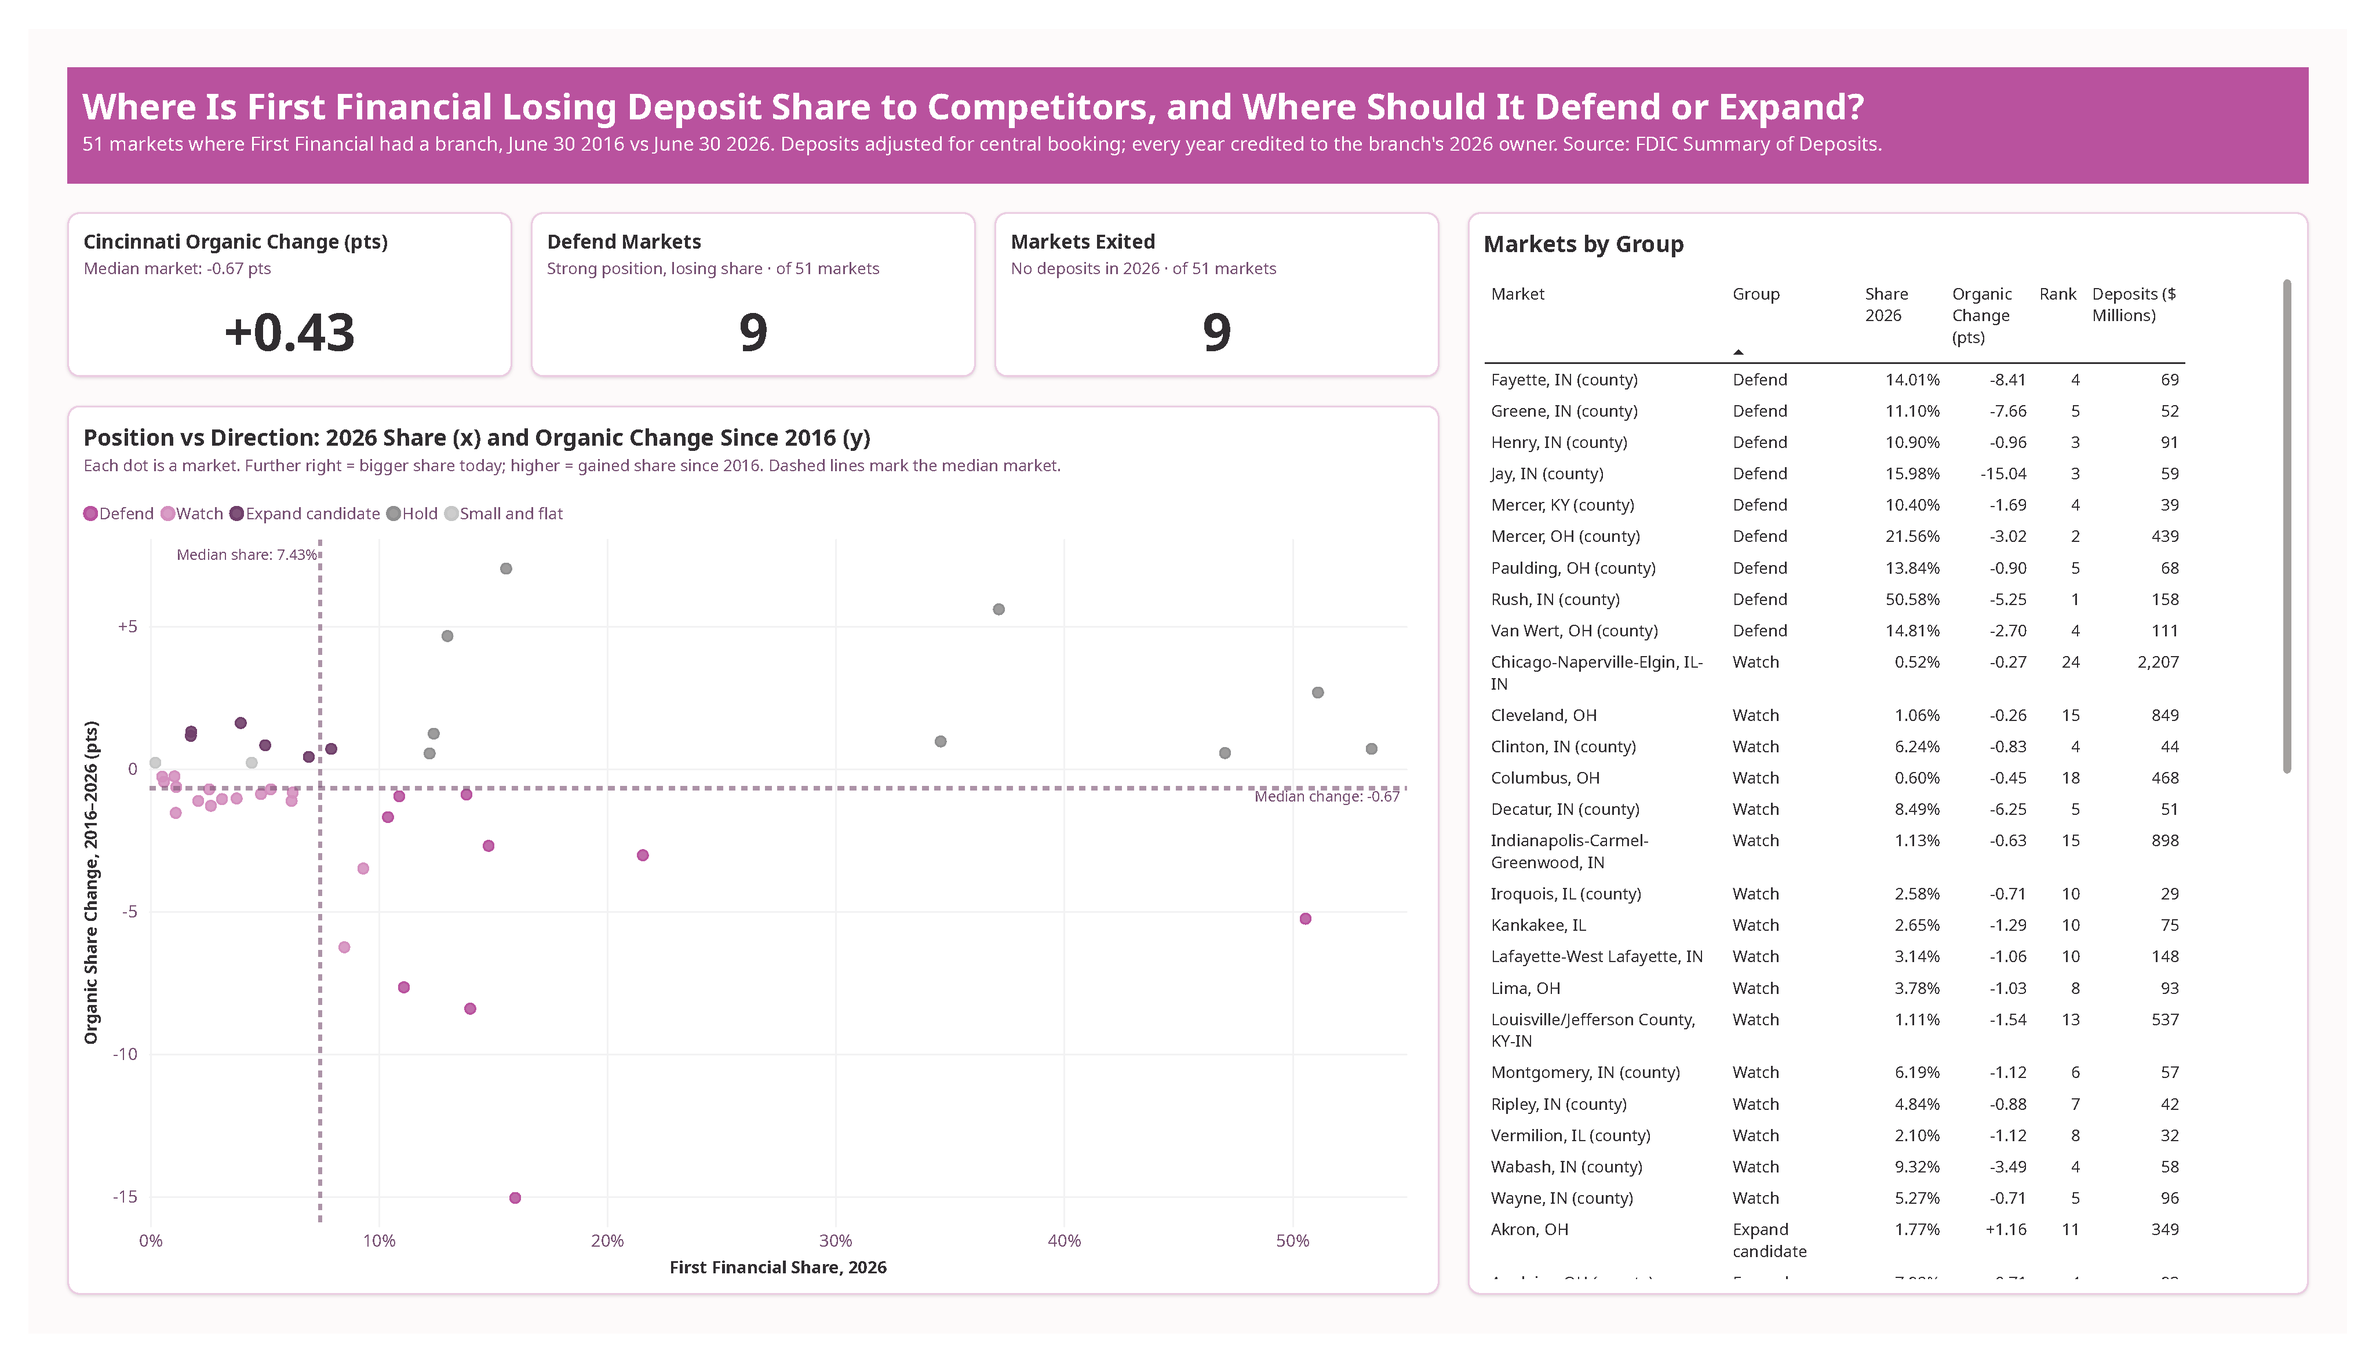
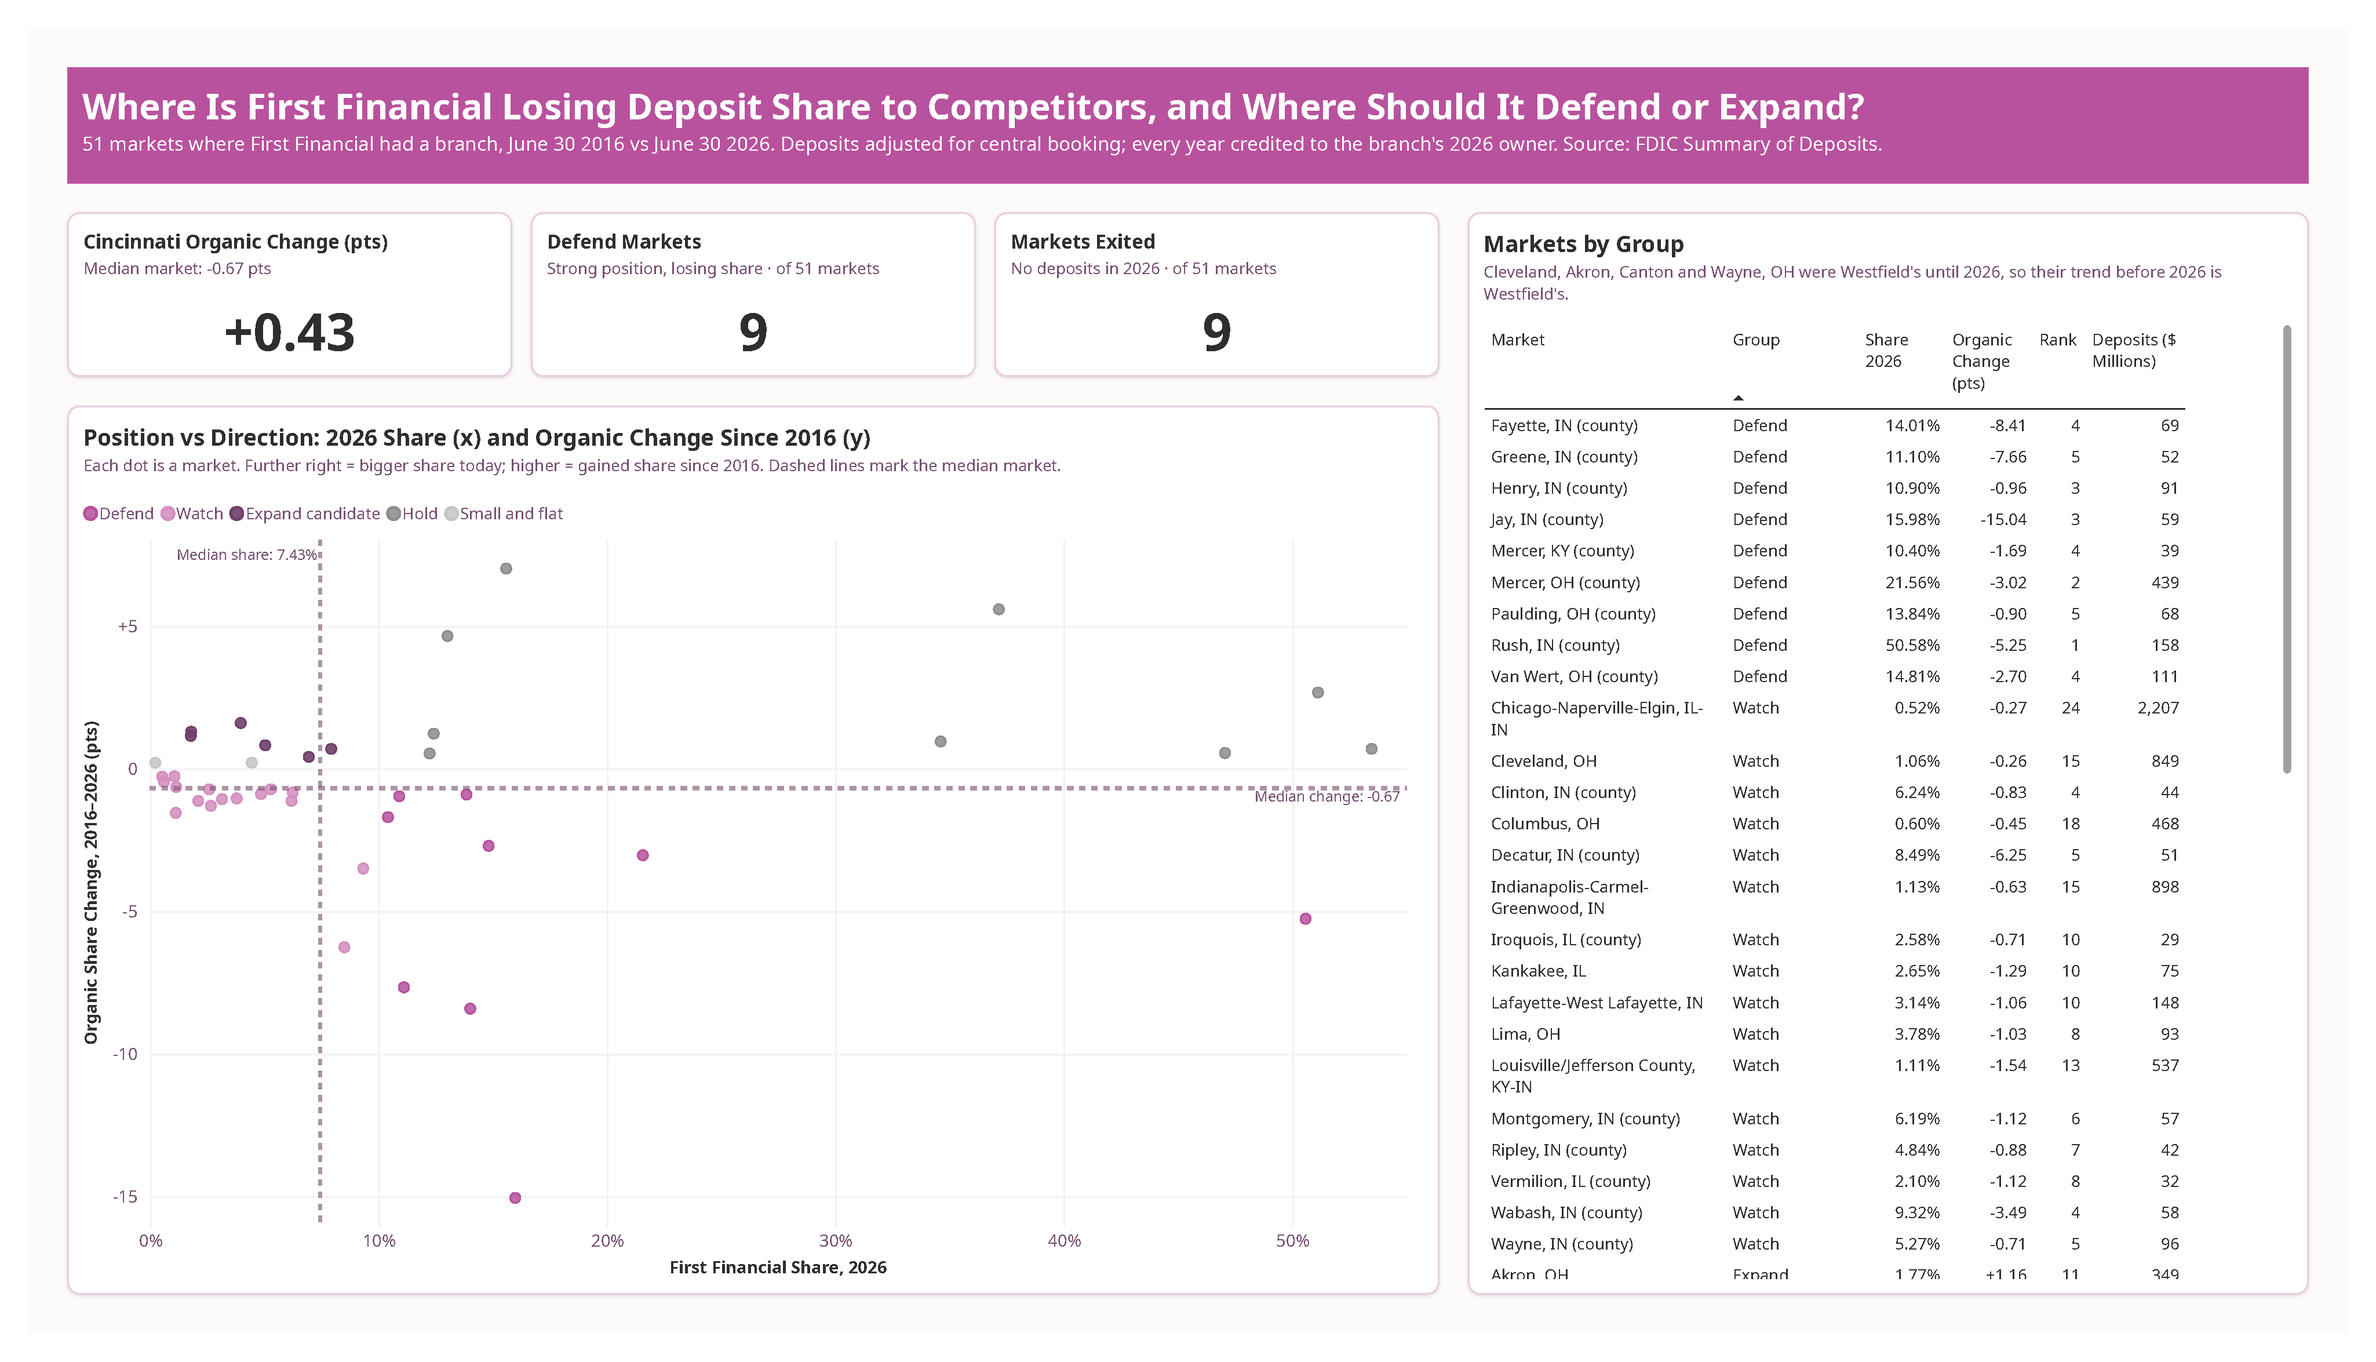
Apply review fixes: README wording/sources, Westfield notes in dashboard, refreshed screenshots
- README: Westfield effective date (FDIC record), relabel the 484.4M figure, Westfield markets note, expand/defend wording, scope line, 5 dropped counties, BPI city list, NCUA source, Decisions link
- Dashboard: Westfield subtitle on Markets by Group, Share Trend Subtitle measure for Cleveland/Akron/Canton/Wayne OH, glossary city list
- Screenshots: overview and how-the-data-was-adjusted retaken

diff --git a/README.md b/README.md
@@ -40,16 +40,16 @@ As *"Publish to Web"* doesn't support phone layouts ([Microsoft Learn](https://l
 ## Context/Definitions:
 - Share is First Financial's slice of all bank deposits in a market. Changes are in percentage points (pts): going from 10% to 9% is −1 pt. 
 - Every change covers 2016 to 2026 and counts only the branches First Financial owns today, so buying another bank doesn't count as a gain. 
-- Deposits that banks record at one office instead of where customers bank are adjusted out (see: [Decisions](#Decisions)). Figures without a link come from the FDIC data in this repo: `reports/tables/`, written by `analyze.py`.
+- Deposits that banks record at one office instead of where customers bank are adjusted out (see: [Decisions](#decisions)). Figures without a link come from the FDIC data in this repo: `reports/tables/`, written by `analyze.py`.
 
 ## Findings:
-- **The biggest losses are in the former MainSource markets, and they started after the 2018 merger.** MainSource was an Indiana bank First Financial bought in 2018 ([FFBC investor presentation, May 2026](https://www.sec.gov/Archives/edgar/data/708955/000070895526000098/a8k52226investpresent.htm)). Jay County, IN fell from 31.0% to 16.0% (−15.04 pts), Fayette, IN from 22.4% to 14.0% (−8.41) and Greene, IN from 18.8% to 11.1% (−7.66). All three are markets where First Financial still ranks in the top 5.
+- **The biggest losses are in the former MainSource markets, mostly after the 2018 merger.** MainSource was an Indiana bank First Financial bought in 2018 ([FFBC investor presentation, May 2026](https://www.sec.gov/Archives/edgar/data/708955/000070895526000098/a8k52226investpresent.htm)). Jay County, IN fell from 31.0% to 16.0% (−15.04 pts), Fayette, IN from 22.4% to 14.0% (−8.41) and Greene, IN from 18.8% to 11.1% (−7.66). All three are markets where First Financial still ranks in the top 5. Jay rose until the merger (31.0% to 32.0% in 2017), then fell; Greene had already started falling in 2017 (18.8% to 15.7%).
 - **Local community banks took that share, not the big national banks.** First Berne gained 15.6 pts in Jay. In Greene, the top gainer was First Financial Corporation of Terre Haute (+11.0), a different company from First Financial Bancorp, followed by Owen Financial (+10.0) and Farmers & Mechanics (+9.4). In Fayette, Union Savings (+5.8) and FCN (+4.3) gained. First Farmers gained 7.4 in Wabash, IN. In Decatur, IN, Napoleon Bancorp gained 13.6 and Bancorp of Southern Indiana, which had no deposits there in 2016, now holds 12.3%.
 - **These markets grew while First Financial shrank.** Jay's total deposits grew 78% while First Financial's fell 8%. In Louisville, the market grew 87% and First Financial's deposits fell 22%. First Financial is losing ground in growing markets, not in shrinking towns.
 - **Cincinnati, the home market, is gaining slightly.** First Financial went from 6.51% to 6.94% (+0.43 pts) and ranks 5th. As reported to the FDIC, the gain looks bigger (+0.96), because the bank books deposits from other markets at its Cincinnati offices.
 - **Every exit was a branch closure, not a sale.** First Financial left 9 markets by closing 10 branches. Five of the exits came right after 2017, around the MainSource merger.
-- **The 2025–2026 drop in Cleveland and Akron is mostly a bookkeeping move, not customers leaving.** After First Financial bought Westfield Bank, an Ohio bank (deal closed November 3, 2025; [8-K](https://www.sec.gov/Archives/edgar/data/708955/000070895525000105/ex991westfieldclosingannou.htm)), Westfield's deposits were moved onto the books of a Cincinnati office. This project takes that block out of Cincinnati, so it shows up as a loss in the markets the money was recorded in before.
-- **Recommendation: defend the 9 markets where First Financial is strong but losing share, starting with Jay, Fayette and Greene.** A next step is to look into why customers there moved to local community banks: pricing, products or branch service. The 6 "expand candidate" markets, led by Wayne, OH (+1.61 pts) and Cincinnati, are where the bank is gaining share but is not yet a top player.
+- **The 2025–2026 drop in Cleveland and Akron is mostly a bookkeeping move, not customers leaving.** After First Financial bought Westfield Bank, an Ohio bank (effective November 1, 2025, per the [FDIC's merger record](https://api.fdic.gov/banks/history?filters=OUT_CERT%3A57077); announced November 3 in an [8-K](https://www.sec.gov/Archives/edgar/data/708955/000070895525000105/ex991westfieldclosingannou.htm)), Westfield's deposits were moved onto the books of a Cincinnati office. This project takes that block out of Cincinnati, so it shows up as a loss in the markets the money was recorded in before.
+- **Recommendation: defend the 9 markets where First Financial is strong but losing share, starting with Jay, Fayette and Greene, which lost the most points.** The order is by points lost, not by deposits. A next step is to look into why customers there moved to local community banks: pricing, products or branch service. The 6 "expand candidate" markets, including Cincinnati (+0.43 pts), are where First Financial's branches gained share but it is not yet a top player. Three of them (Wayne, OH, Akron and Canton) are Westfield markets: First Financial owned them only in 2026, so their 2016–2025 gains are Westfield's.
 
 ## Question
 
@@ -70,13 +70,15 @@ Each of the 51 markets First Financial served goes into one group, based on how 
 | Small and flat | Not strong, and moved 0.25 pts or less | 2 |
 | Exited | Had branches in 2016–2025, no deposits in 2026 | 9 |
 
+*Westfield markets:* Cleveland, Akron, Canton and Wayne, OH belonged to Westfield until First Financial bought it, so their 2016–2025 trend is Westfield's. Cleveland is in Watch only because of the 2026 Westfield re-booking (see Findings): its share was 1.31% in 2016 and 1.38% in 2025, so through 2025 it would be Small and flat.
+
 ## Data
 
 - **Source:** FDIC Summary of Deposits (SOD), pulled from the [FDIC BankFind API](https://api.fdic.gov/banks/sod) (`/sod` and `/history`). The SOD is the FDIC's yearly survey of deposits at every branch of every FDIC-insured bank, as of June 30.
 - **Latest release:** June 30, 2026 data, published September 18, 2026 ([FDIC press release](https://www.fdic.gov/news/press-releases/2026/fdic-releases-results-summary-deposits-annual-survey)).
 - **Downloaded:** November 5, 2026, by `download.py`.
 - **Window:** 11 surveys, 2016–2026. This is longer than the 5 years or less the FDIC usually uses when it credits past years to today's owners, because the further back you go, the more the picture leans on the banks that survived ([FDIC Quarterly, 2019](https://www.fdic.gov/analysis/quarterly-banking-profile/fdic-quarterly/2019-vol13-1/fdic-v13n1-4q2018-article.pdf)). I kept 10 years so MainSource's years before the merger stay in.
-- **Scope:** every branch of every bank in each county where First Financial, or a bank that later merged into it, had a branch. That is 73,440 branch-years (one branch in one year) in 131 counties.
+- **Scope:** every branch of every bank in every county that sat, in any year, in a metro area or county where First Financial, or a bank that later merged into it, had a branch. That is 73,440 branch-years (one branch in one year) in 131 counties.
 - **Units:** SOD amounts are in thousands of dollars ([SOD instructions](https://www.fdic.gov/bank-financial-reports/summary-deposits-reporting-instructions.pdf)).
 - **Check:** First Financial Bank's 2026 SOD total ($17,801,476K) matches the deposits in its Call Report, the quarterly financial filing banks make to regulators (FDIC BankFind financials, field `DEP`). Its 10-Q reports $17,583,229K; the 10-Q says intercompany accounts are eliminated in consolidation, which fits the gap, but no filing confirms that is the cause ([10-Q, June 30, 2026](https://www.sec.gov/Archives/edgar/data/708955/000070895526000144/ffbc-20260630.htm)).
 
@@ -87,7 +89,7 @@ Row counts printed by `clean.py`.
 | Step | What happens | Result |
 |---|---|---|
 | 1 | Load raw branch-year rows from 11 yearly files | 73,440 rows |
-| 2 | Assign each county to a market | 131 counties; 56 markets pulled (17 metro, 39 county). 5 have no First Financial branch in any year, so 51 are analyzed. 23 counties changed MSA status during the window |
+| 2 | Assign each county to a market | 131 counties; 56 markets pulled (17 metro, 39 county). 5 are counties that left a First Financial metro area during the window (Putnam, Scott and Union, IN; Trimble, KY; Kenosha, WI), so under the 2026 market map they have no First Financial branch, and 51 are analyzed. 23 counties changed MSA status during the window |
 | 3 | Find banks that merged into another bank by 2026 | 562 banks; 142 merged |
 | 4 | Credit every row to the branch's 2026 owner | 62,093 open in 2026; 895 via merger chain; 10,081 closed, bank still operating; 371 closed, no successor in data |
 | 5 | Build the owner list | 581 owners (1 focus bank) |
@@ -109,7 +111,7 @@ All judgements calls below and why:
 - **Closed branches are credited to their last owner, then carried forward through mergers.** I used 2,284 FDIC merger events from July 2016 to June 2026 ([FDIC history events](https://api.fdic.gov/banks/docs//events_definitions.csv)), so a closed MainSource branch counts as First Financial's.
 - **Competitors are counted at holding-company level.** Two banks with the same parent are one competitor.
 - **Centrally booked deposits are capped or removed.** Some banks record deposits at one office instead of the branch near the customer, which makes them look huge in one market and shrinks everyone else's share. Two layers handle this:
-  - **The BPI cap:** no branch can count for more than 3× the size of a branch bigger than 99% of the branches in its market that year. The cap applies only in markets where it kicks in for at least 9 of the 11 years: Canton, Chicago, Cincinnati, Cleveland and Columbus, OH. The method comes from the [Bank Policy Institute (2022)](https://bpi.com/wp-content/uploads/2022/07/Our-Search-for-an-Urban-Banking-Market-Made-Less-Competitive-by-a-Banking-Merger.pdf), a large-bank trade group that argues market concentration is overstated.
+  - **The BPI cap:** no branch can count for more than 3× the size of a branch bigger than 99% of the branches in its market that year. The cap applies only in markets where it kicks in for at least 9 of the 11 years: Canton, Cleveland and Columbus, OH; Chicago; and Cincinnati. The method comes from the [Bank Policy Institute (2022)](https://bpi.com/wp-content/uploads/2022/07/Our-Search-for-an-Urban-Banking-Market-Made-Less-Competitive-by-a-Banking-Merger.pdf), a large-bank trade group that argues market concentration is overstated.
   - **A branch-by-branch review** for anything the cap misses (see Booking Review).
 - **First Financial's own Cincinnati booking office gets the same treatment as competitors'.** The cap trims Fifth Third's and U.S. Bank's Cincinnati headquarters records but barely touches First Financial's. So First Financial's Cincinnati booking records are held to set levels for 2016–2026. The Fed adjusts the bank under review only where it can adjust its competitors the same way ([Fed FAQ, Q23](https://www.federalreserve.gov/bankinforeg/competitive-effects-mergers-acquisitions-faqs.htm)).
 - **Alternative considered: the FDIC's September 22, 2026 proposed rule.** It would spread a bank's centrally booked deposits across markets by population ([Federal Register](https://www.federalregister.gov/documents/2026/09/22/2026-19308/merger-transactions)). I didn't use it because it's a proposal and it covers only the FDIC's own merger reviews.
@@ -142,14 +144,14 @@ A booking office is a branch where a bank records deposits from customers elsewh
 ## Data Gaps, Assumptions, and Limitations:
 
 - **Banks choose how they assign deposits to branches.** The FDIC lets each bank use its own method ([SOD instructions](https://www.fdic.gov/bank-financial-reports/summary-deposits-reporting-instructions.pdf)), so branch figures are the bank's allocation, not a count of where customers live.
-- **Credit unions aren't in the SOD.** They report to the NCUA, so their share is missing from every market ([Fed FAQ, Q18](https://www.federalreserve.gov/bankinforeg/competitive-effects-mergers-acquisitions-faqs.htm)).
+- **Credit unions aren't in the SOD.** They report to the NCUA, so their share is missing from every market ([FinObservatory methodology](https://finobservatory.org/deposits/county/methodology)).
 - **Branch-only sales and moves inside one bank aren't tracked.** Mergers are followed through FDIC history, but a single branch sold without a merger, or deposits moved between a bank's own branches, can still show up as a gain or loss.
 - **Rush, 2016–2017:** Wells Fargo branch 2882 fell from $197M to $115M before the 2018 sale. The cause is unknown.
 - **U.S. Bank, Wayne County, IN (branch 203533):** jumped from $22M to $476M in 2024. It was reviewed and kept, and it moves First Financial's change by 0.75 pts.
 - **Wells Fargo, Fort Wayne (branch 8658):** fell from $1.16B to $31M. It wasn't reviewed because it moves First Financial's change by only 0.10 pts.
 - **Truist, Louisville (branch 364386):** looks like booking but was left in. Removing it changes First Financial's Louisville result from −1.54 to −1.46 pts.
 - **First Financial's 2024 Cincinnati baseline is assumed.** The cap on its 4th & Vine office in Cincinnati holds 2025 at the 2024 level ($353.2M). No filing states the right level.
-- **The 2025–2026 losses outside Cincinnati are an inference.** First Financial's older offices outside Cincinnati fell $484.4M while the 4th & Vine office rose. I read that as deposits re-booked to Cincinnati, which explains the Indianapolis drop and the drops in other markets. No filing names the accounts.
+- **Where 4th & Vine's 2026 rise came from is an inference.** From 2025 to 2026, the 4th & Vine office in Cincinnati rose $544.3M. First Financial's other existing offices (all except the two Cincinnati booking offices) fell $484.4M: $292.7M at its other Cincinnati offices and $191.7M outside Cincinnati. I read that as deposits re-booked to 4th & Vine, which is behind the drops in Indianapolis and other markets. No filing names the accounts.
 - **Two banks with similar names.** In Greene, IN, the top gainer is "First Financial Corporation" of Terre Haute, a different bank from First Financial Bancorp (separate holding company IDs in the FDIC data).
 - **Deals after the data:** First Financial agreed to buy Finward on July 21, 2026 ([SEC exhibit](https://www.sec.gov/Archives/edgar/data/919864/000110465926085426/tm2620858d2_ex99-1.htm)). That deal isn't in the June 30, 2026 data.
 
